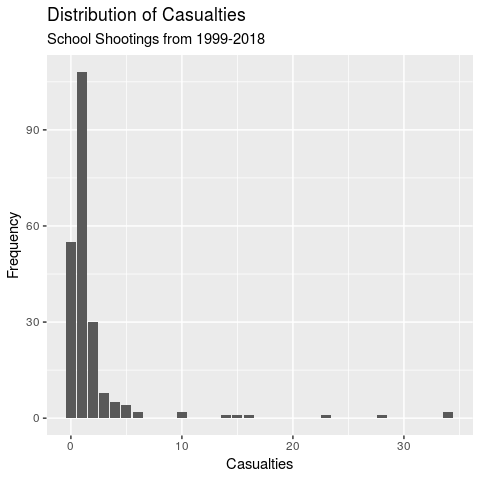
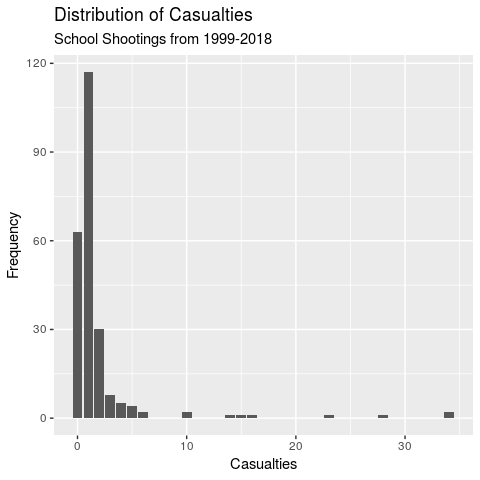
added basic model

diff --git a/project/project.md b/project/project.md
@@ -20,11 +20,11 @@ Distribution of Casualties
     ## # Groups:   shooting_type [10]
     ##    shooting_type                   n
     ##    <chr>                       <int>
-    ##  1 targeted                      131
-    ##  2 indiscriminate                 44
-    ##  3 accidental                     26
-    ##  4 targeted and indiscriminate     5
-    ##  5 unclear                         5
+    ##  1 targeted                      140
+    ##  2 indiscriminate                 45
+    ##  3 accidental                     28
+    ##  4 unclear                         9
+    ##  5 targeted and indiscriminate     6
     ##  6 public suicide                  4
     ##  7 accidental or targeted          2
     ##  8 hostage suicide                 2
@@ -39,11 +39,11 @@ Most of the shootings in our dataset were categorized as targeted.
     ## # Groups:   day_of_week [5]
     ##   day_of_week     n
     ##   <chr>       <int>
-    ## 1 Tuesday        52
-    ## 2 Wednesday      51
-    ## 3 Monday         45
-    ## 4 Friday         40
-    ## 5 Thursday       33
+    ## 1 Tuesday        55
+    ## 2 Wednesday      53
+    ## 3 Monday         48
+    ## 4 Friday         45
+    ## 5 Thursday       37
 
 There seems to be minimal difference in the number of shootings among
 days of the week, but Tuesday and Wednesday are the days with the most
@@ -64,4 +64,34 @@ perform predictions.
 Variables:
 
 `day_of_week` `black_percent` `white_percent` `hispanic_percent`
-`asian_percent` `enrollment` `lunch_percent` `shooting_type`
+`asian_percent` `enrollment` `lunch_percent`
+
+``` shooting_type```
+
+```
+
+## 
+
+## Call:
+
+## lm(formula = casualties ~ day\_of\_week + black\_percent + white\_percent,
+
+## data = school\_shootings)
+
+## 
+
+## Coefficients:
+
+## (Intercept) day\_of\_weekMonday day\_of\_weekThursday
+
+## 1.5614 -0.1165 -0.7555
+
+## day\_of\_weekTuesday day\_of\_weekWednesday black\_percent
+
+## 0.4715 -0.2698 -0.8502
+
+## white\_percent
+
+## 1.7832
+
+\`\`\`
